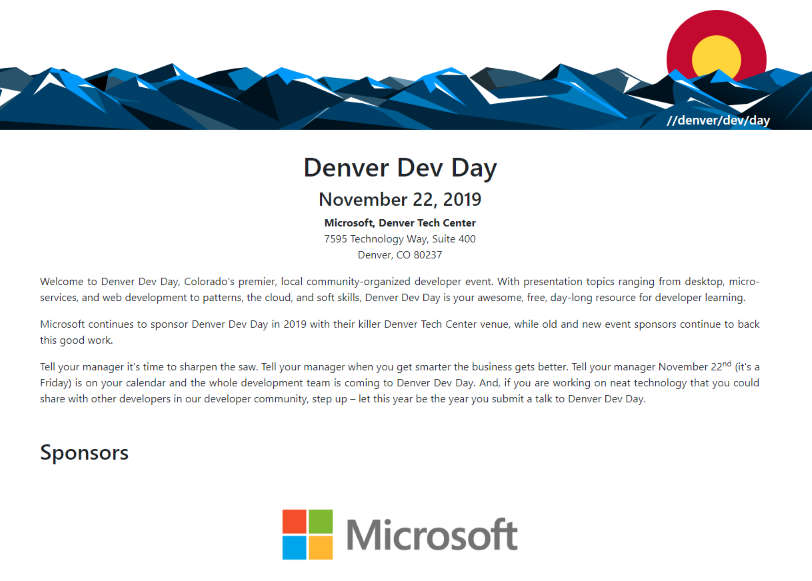
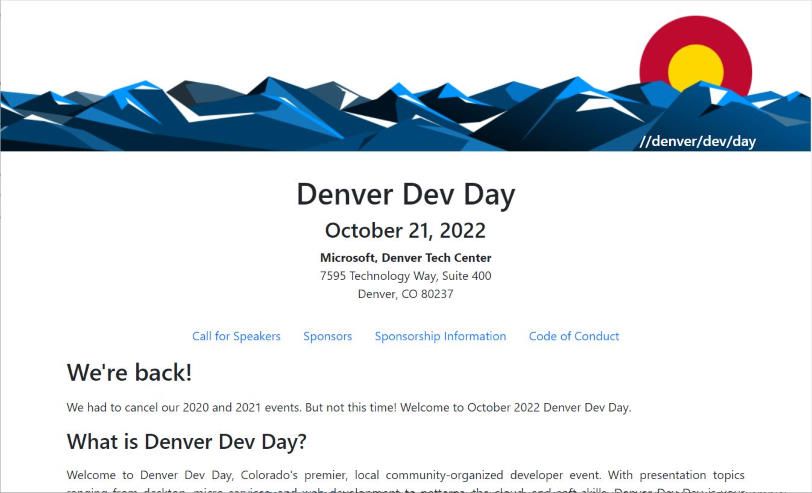
Fixing past dates. Updating the preview.

diff --git a/sponsorship.html b/sponsorship.html
@@ -4,13 +4,13 @@
     <title>Sponsorship Information | Denver Dev Day | October 21, 2022</title>
     <meta charset="utf-8">
     <meta name="viewport" content="width=device-width, initial-scale=1, shrink-to-fit=no">
-    <meta property="og:title" content="Denver Dev Day | November 22, 2019">
+    <meta property="og:title" content="Denver Dev Day | October 21, 2022">
     <meta property="og:description" content="Welcome to Denver Dev Day, Colorado's premier, local community-organized
     developer event. With presentation topics ranging from desktop, micro-services, and web development
     to patterns, the cloud, and soft skills, Denver Dev Day is your awesome, free, day-long resource for
     developer learning.">
-    <meta property="og:image" content="https://denverdevday.github.io/nov-2019/assets/screenshot.jpg">
-    <meta property="og:url" content="https://denverdevday.github.io/nov-2019/">
+    <meta property="og:image" content="https://denverdevday.github.io/oct-2022/assets/screenshot.jpg">
+    <meta property="og:url" content="https://denverdevday.github.io/oct-2022/">
     <link rel="stylesheet" href="https://maxcdn.bootstrapcdn.com/bootstrap/4.0.0-beta.2/css/bootstrap.min.css" integrity="sha384-PsH8R72JQ3SOdhVi3uxftmaW6Vc51MKb0q5P2rRUpPvrszuE4W1povHYgTpBfshb" crossorigin="anonymous">
     <link rel="stylesheet" href="https://cdnjs.cloudflare.com/ajax/libs/font-awesome/4.7.0/css/font-awesome.min.css">
     <link rel="stylesheet" href="./ddd.css">
@@ -186,7 +186,7 @@
                     $100
                 </td>
                 <td>
-                    All Bronze benefits plus: 
+                    All Bronze benefits plus:
                     <ul>
                         <li>Logo on everything</li>
                         <li>Keynote callout</li>
@@ -229,7 +229,7 @@
 
 
     <h4 class="mt-5">Activity sponsorship</h4>
-    <p class="text-justify">If your organization would like to sponsor a certain thing, you are welcome to consider the 
+    <p class="text-justify">If your organization would like to sponsor a certain thing, you are welcome to consider the
     following categories. Please note to sponsor any activity, you must first be a Sponsor at any level.</p>
 
     <table class="table mt-3">
@@ -277,7 +277,7 @@
     <h4 class="mt-5">Additional Information</h4>
     <p class="text-justify">Denver Dev Day is an event produced for the community by the community. Sponsorship does not
     entail any oversight or selection of topics that will be presented.</p>
-    
+
     <h4 class="mt-5">Privacy</h4>
     <p class="text-justify">We will not disclose any personal information about the attendees to sponsors, and sponsorship does
     not mean we will give up this information. We respect our attendee's privacy. If attendees give
